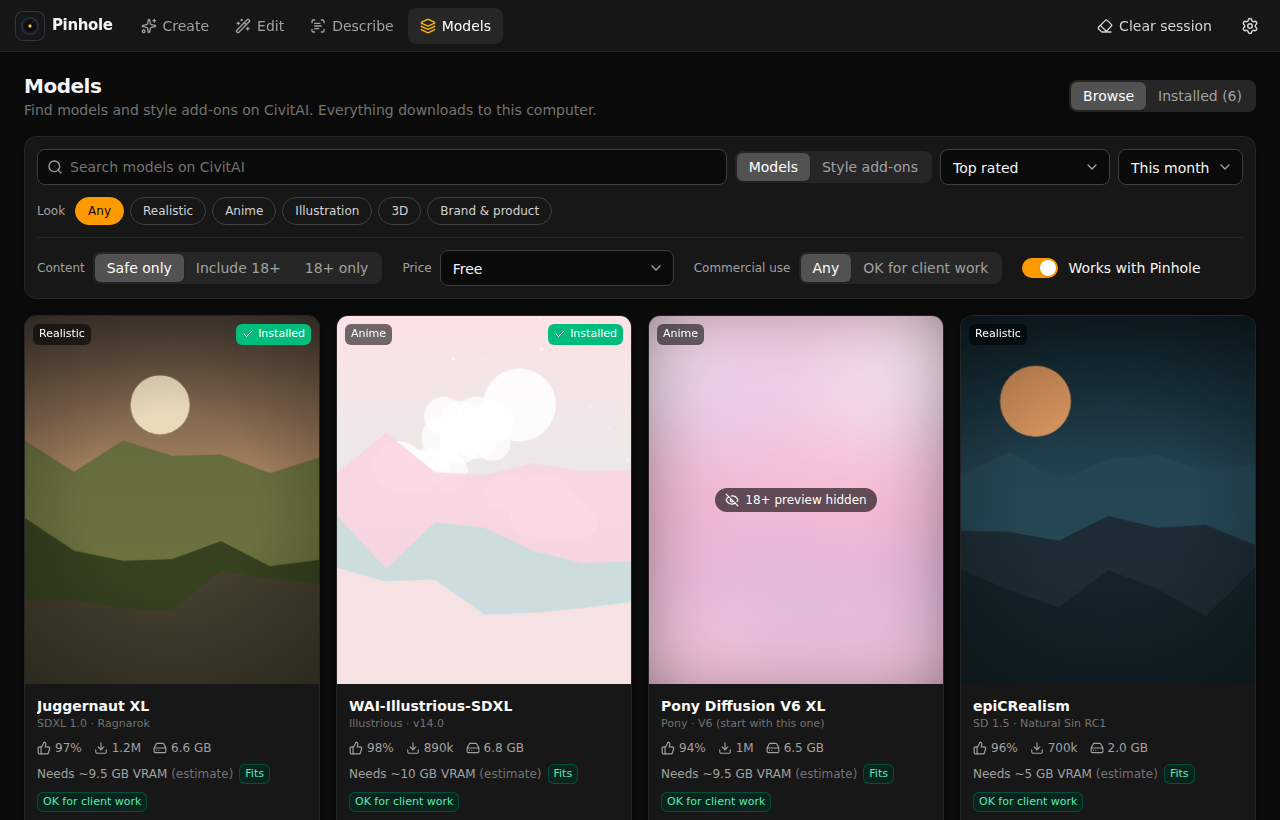
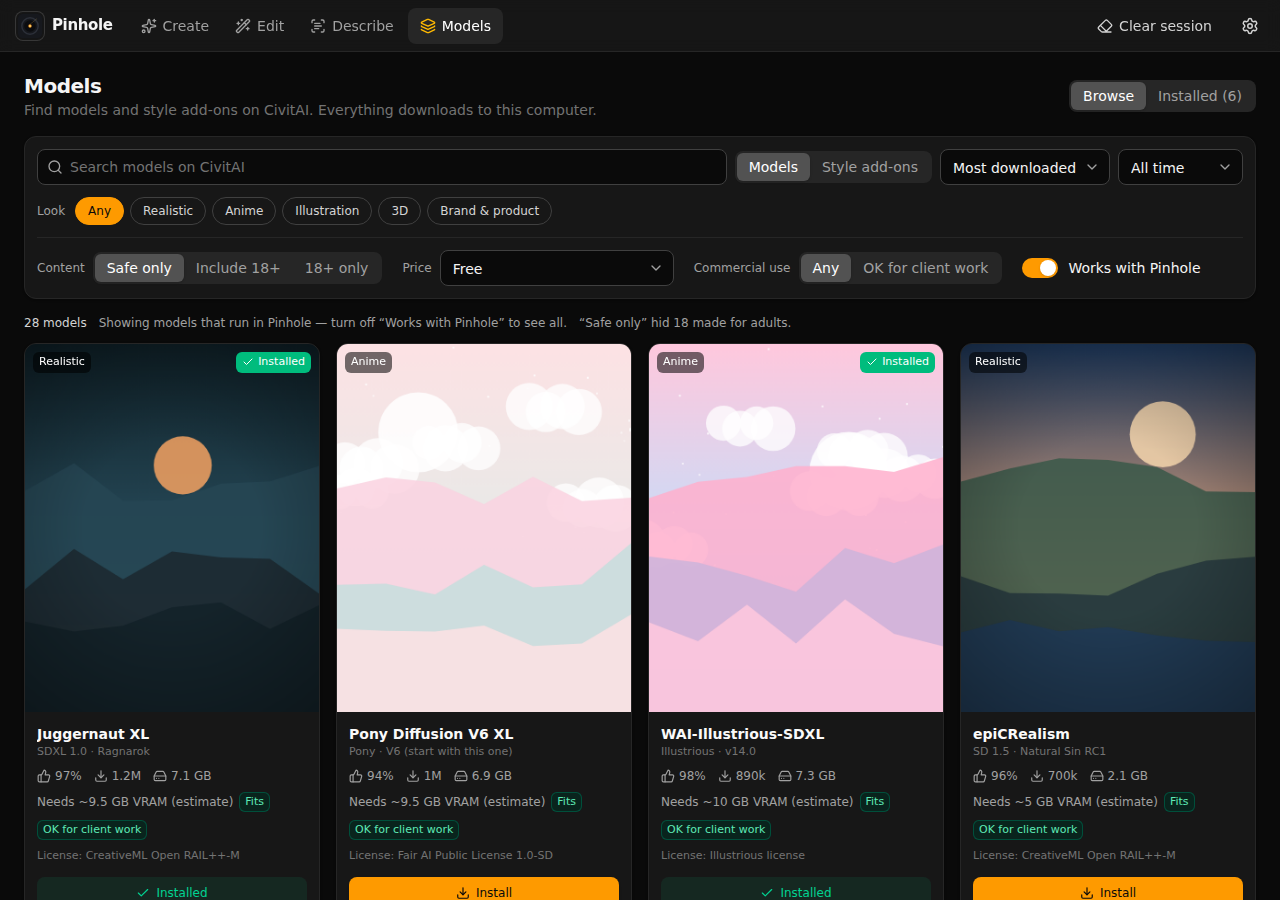
wip: agent progress snapshot
Claude-Session: https://claude.ai/code/session_01DFw5r4zpi2N2A7BA5fzzYP

diff --git a/src/lib/mock/catalog.ts b/src/lib/mock/catalog.ts
@@ -170,34 +170,46 @@ function allEntries(): Entry[] {
     if (e.createdDaysAgo > 30 && i % 3 !== 0) e.createdDaysAgo = Math.floor(rnd() * 28);
   });
   let n = 0;
+  const filler = (a: string, b: string, suffix: string) => {
+    n += 1;
+    const base = b === "Anime" ? (rnd() > 0.5 ? "Illustrious" : "Pony") : BASES[Math.floor(rnd() * BASES.length)];
+    const isLora = rnd() > 0.72;
+    out.push(
+      complete(
+        {
+          name: `${a} ${b}${base.startsWith("SDXL") || base === "Pony" || base === "Illustrious" ? " XL" : ""}${suffix}`,
+          versionName: `v${1 + Math.floor(rnd() * 6)}.${Math.floor(rnd() * 10)}`,
+          type: isLora ? "LORA" : "Checkpoint",
+          baseModel: base,
+          looks: LOOK_FOR_B[b],
+          creator: ["mira", "tobi", "kaz", "lena", "orbit", "fern"][Math.floor(rnd() * 6)],
+          thumbsUpRatio: 0.78 + rnd() * 0.21,
+          downloadCount: Math.floor(500 + rnd() * rnd() * 300_000),
+          mainMb: isLora ? 120 + Math.floor(rnd() * 200) : base === "SD 1.5" ? 2034 : base.startsWith("Flux") ? 11_900 : base === "ZImageTurbo" ? 12_300 : 6617,
+          previewNsfw: rnd() > 0.88,
+          modelNsfw: rnd() > 0.9,
+          suggestive: rnd() > 0.8,
+          earlyAccess: rnd() > 0.9,
+          trainedWords: isLora ? [b.toLowerCase()] : [],
+          createdDaysAgo: rnd() > 0.35 ? Math.floor(rnd() * 28) : Math.floor(30 + rnd() * 500),
+        },
+        100 + n,
+      ),
+    );
+  };
   for (const a of FILLER_A) {
     for (const b of FILLER_B) {
       if (rnd() > 0.34) continue;
-      n += 1;
-      const base = b === "Anime" ? (rnd() > 0.5 ? "Illustrious" : "Pony") : BASES[Math.floor(rnd() * BASES.length)];
-      const isLora = rnd() > 0.72;
-      out.push(
-        complete(
-          {
-            name: `${a} ${b}${base.startsWith("SDXL") || base === "Pony" || base === "Illustrious" ? " XL" : ""}`,
-            versionName: `v${1 + Math.floor(rnd() * 6)}.${Math.floor(rnd() * 10)}`,
-            type: isLora ? "LORA" : "Checkpoint",
-            baseModel: base,
-            looks: LOOK_FOR_B[b],
-            creator: ["mira", "tobi", "kaz", "lena", "orbit", "fern"][Math.floor(rnd() * 6)],
-            thumbsUpRatio: 0.78 + rnd() * 0.21,
-            downloadCount: Math.floor(500 + rnd() * rnd() * 300_000),
-            mainMb: isLora ? 120 + Math.floor(rnd() * 200) : base === "SD 1.5" ? 2034 : base.startsWith("Flux") ? 11_900 : base === "ZImageTurbo" ? 12_300 : 6617,
-            previewNsfw: rnd() > 0.88,
-            modelNsfw: rnd() > 0.9,
-            suggestive: rnd() > 0.8,
-            earlyAccess: rnd() > 0.9,
-            trainedWords: isLora ? [b.toLowerCase()] : [],
-            createdDaysAgo: rnd() > 0.35 ? Math.floor(rnd() * 28) : Math.floor(30 + rnd() * 500),
-          },
-          100 + n,
-        ),
-      );
+      filler(a, b, "");
+    }
+  }
+  // Older generations: several CivitAI pages, so infinite scroll and prefetch have work to do.
+  for (const suffix of [" II", " Turbo", " Pro"]) {
+    for (const a of FILLER_A) {
+      for (const b of FILLER_B) {
+        if (rnd() > 0.4) continue;
+        filler(a, b, suffix);
+      }
     }
   }
   entries = out;

diff --git a/docs/PROJECT-BRIEF.md b/docs/PROJECT-BRIEF.md
@@ -70,10 +70,11 @@ Tests: crate unit tests, `tests/` (privacy, offline, engine smoke, app e2e), `te
 
 ## Open work / roadmap
 1. **VRAM robustness on real GPUs** (in progress): see Status.
-2. **More model families** (in progress): Krea 2, Anima, MiniMax H3, Flux.1 Krea, Flux.2 (D, Klein),
-   Chroma, Qwen 2 / 2.1, SD 3.x — the pinned engine supports them; the registry needs family entries
-   with verified components. These dominate CivitAI's current top models, which is why browsing
-   looked thin.
+2. **More model families** (registry entries done, not yet run on a real GPU): Krea 2 (Turbo is
+   the second "Realistic" one-click pick on 12 GB+), Anima, Flux.1 Krea, Flux.2 (dev, klein 4B/9B
+   + base), Chroma, Qwen-Image 2.1, SD 3 / 3.5, HiDream-O1, ERNIE-Image, Mage-Flow; CivitAI int8
+   (ComfyUI int8_tensorwise) files now install. Not runnable: MiniMax H3 (video + audio only in the
+   engine), "Qwen 2" (API-only on CivitAI). Needs real-GPU checks of defaults and VRAM figures.
 3. **CivitAI browser** (built, awaiting a real-app check): Safe only = Stability Matrix's default
    (hide CivitAI-flagged models, PG previews only) plus YAML tag / name / sample-rating rules tuned on
    live data; opens on Most downloaded · All time; full pages (client-side filters fetch more, then
